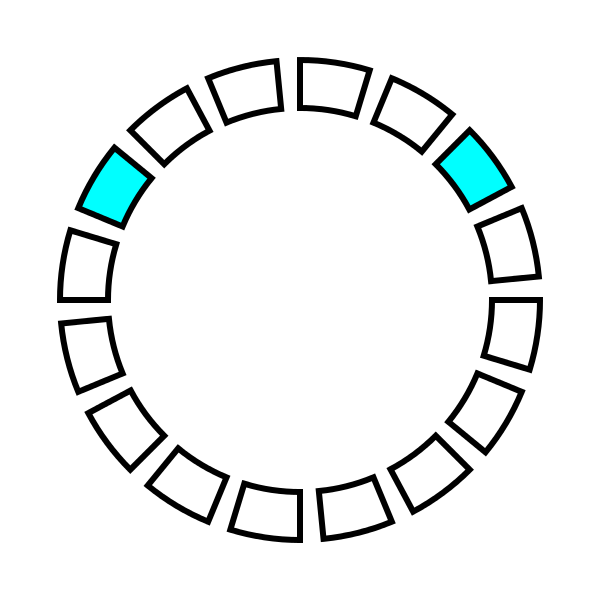
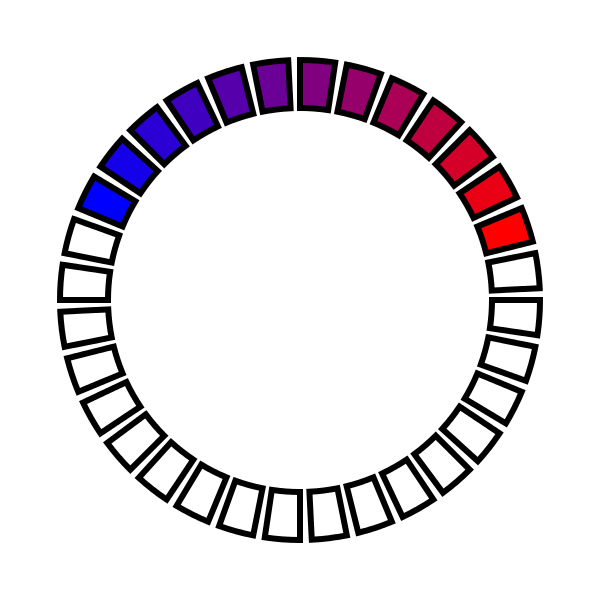
Incremental

diff --git a/myCairo.py b/myCairo.py
@@ -67,8 +67,27 @@ def frange(start,stop, step=1.0):
 
 SEGMENTS = 16
 
-fillers = { 9 : (0, 1, 1),
-            14 : (0, 1, 1) }
+
+fillers = { 28  : (0,   0  , 1),
+            20  : (1,   0  ,   0),
+}
+
+def makeFillers( sIdx, sTup, endIdx, endTup):
+    nums = arange( sIdx, endIdx + 1 )
+    N = len(nums)
+    reds   = linspace( sTup[0], endTup[0], N)
+    greens = linspace( sTup[1], endTup[1], N)
+    blues  = linspace( sTup[2], endTup[2], N)
+    ret = {}
+    for idx, r, g, b in zip( nums, reds, greens, blues):
+        ret[idx] = (r,g,b)
+    return ret
+
+fillers = makeFillers( 18, (0.0, 0.0, 1.0), 30, (1.0, 0.0, 0.0) )
+
+
+#fillers[0] = ( 1.0, 0.0, 1.0)
+#fillers[8] = ( 0.0, 1.0, 0.0)
 
 def ringBuffer(ctx,
                pos,
@@ -270,7 +289,7 @@ ctx.restore()
 surface.write_to_png ("example4.png") # Output to PNG
 
 
-def doSurf(SZ, dest, fillers = {}):
+def doSurf(SZ, dest, fillers = {}, SEGMENTS = 16):
     surface = cairo.ImageSurface (cairo.FORMAT_ARGB32, SZ, SZ)
     ctx = cairo.Context(surface)
     ctx.set_line_width (0.01)
@@ -280,11 +299,14 @@ def doSurf(SZ, dest, fillers = {}):
     ctx.fill()
     ctx.stroke()
     black(ctx)
-    ringBuffer(ctx, (0.5, 0.5), 0.4, 0.8 * 0.4 , 16, 0.75, fillers = fillers)
+    ringBuffer(ctx, (0.5, 0.5), 0.4, 0.8 * 0.4 , SEGMENTS, 0.75, fillers = fillers)
     surface.write_to_png (dest) # Output to PNG
 doSurf(300, "example5.png")
-doSurf(600, "example6.png", fillers = fillers)
 
+doSurf(150, "trading_inout_queue.png")
+
+
+doSurf(600, "example6.png", fillers = fillers, SEGMENTS = 32)
 
 def doCont(SZ, dest):
     surface = cairo.ImageSurface (cairo.FORMAT_ARGB32, SZ, SZ)
@@ -336,8 +358,6 @@ endX = 0.5 + 0.4 * math.cos(330 * RADIANS_PER_DEGREE )
 endY = 0.5 + 0.4 * math.sin(330 * RADIANS_PER_DEGREE )
 arrowHead(ctx, (endX, endY), 38 * RADIANS_PER_DEGREE, 0.4)
 surface.write_to_png ("example8.png") # Output to PNG
-
-
 
 
 # Looper
